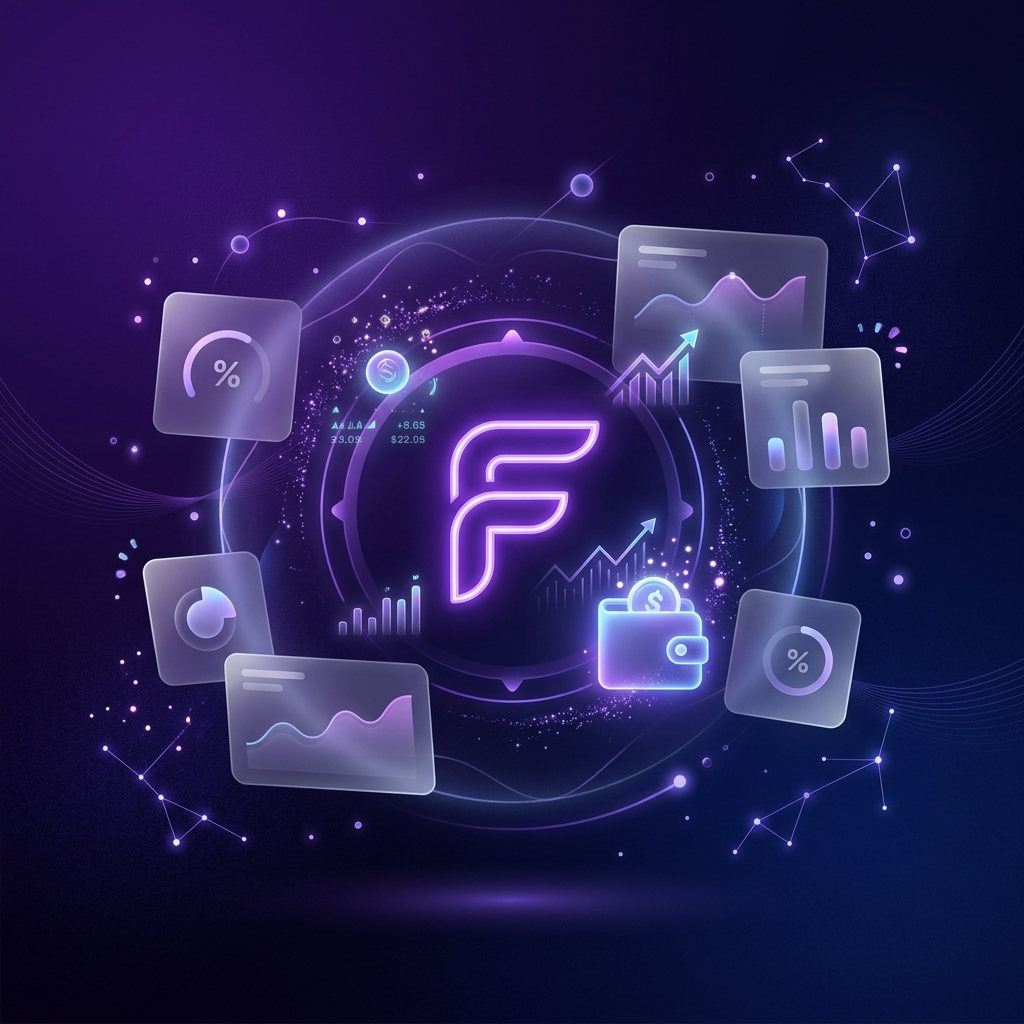
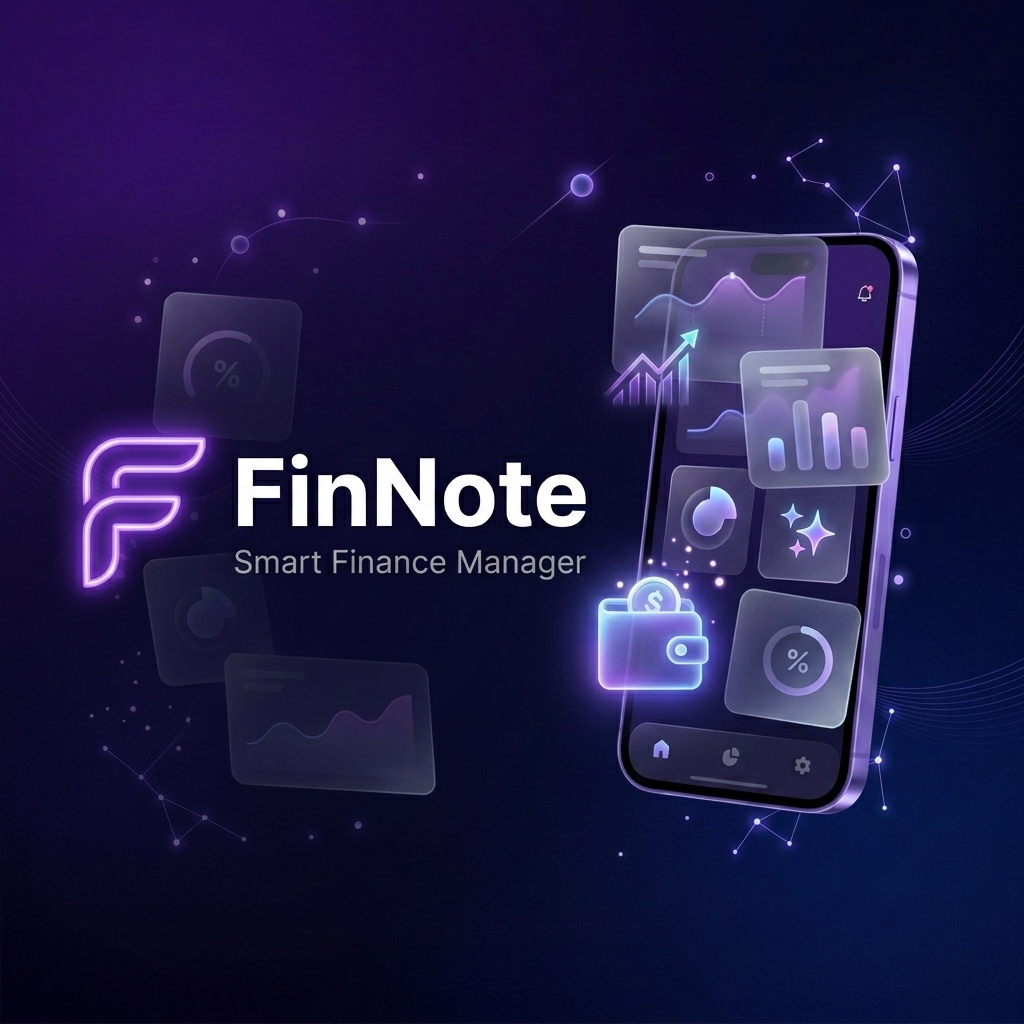
fix(seo): fix OG meta tags for social media preview - Change html lang en to vi, fix og:locale to vi_VN, update og:image dimensions, replace og-cover.png, add CORS headers for images

diff --git a/index.html b/index.html
@@ -1,5 +1,5 @@
 <!DOCTYPE html>
-<html lang="en">
+<html lang="vi">
   <head>
     <meta charset="UTF-8" />
 
@@ -33,12 +33,12 @@
     <meta property="og:title" content="FinNote - Quản Lý Tài Chính Cá Nhân & Ghi Chép" />
     <meta property="og:description" content="FinNote: Ứng dụng quản lý thu chi thông minh tích hợp AI tư vấn tài chính. Giúp bạn theo dõi dòng tiền, ví điện tử và lập kế hoạch chi tiêu hiệu quả. Miễn phí sử dụng." />
     <meta property="og:image" content="https://finnote-f4n.pages.dev/images/og-cover.png" />
-    <meta property="og:image:width" content="1200" />
-    <meta property="og:image:height" content="630" />
+    <meta property="og:image:width" content="1024" />
+    <meta property="og:image:height" content="1024" />
     <meta property="og:image:alt" content="FinNote - Quản Lý Tài Chính Cá Nhân & Ghi Chép" />
     <meta property="og:image:type" content="image/png" />
-    <meta property="og:locale" content="en_US" />
-    <meta property="og:locale:alternate" content="vi_VN" />
+    <meta property="og:locale" content="vi_VN" />
+    <meta property="og:locale:alternate" content="en_US" />
     <meta property="og:site_name" content="FinNote" />
 
     <!-- Twitter Card -->